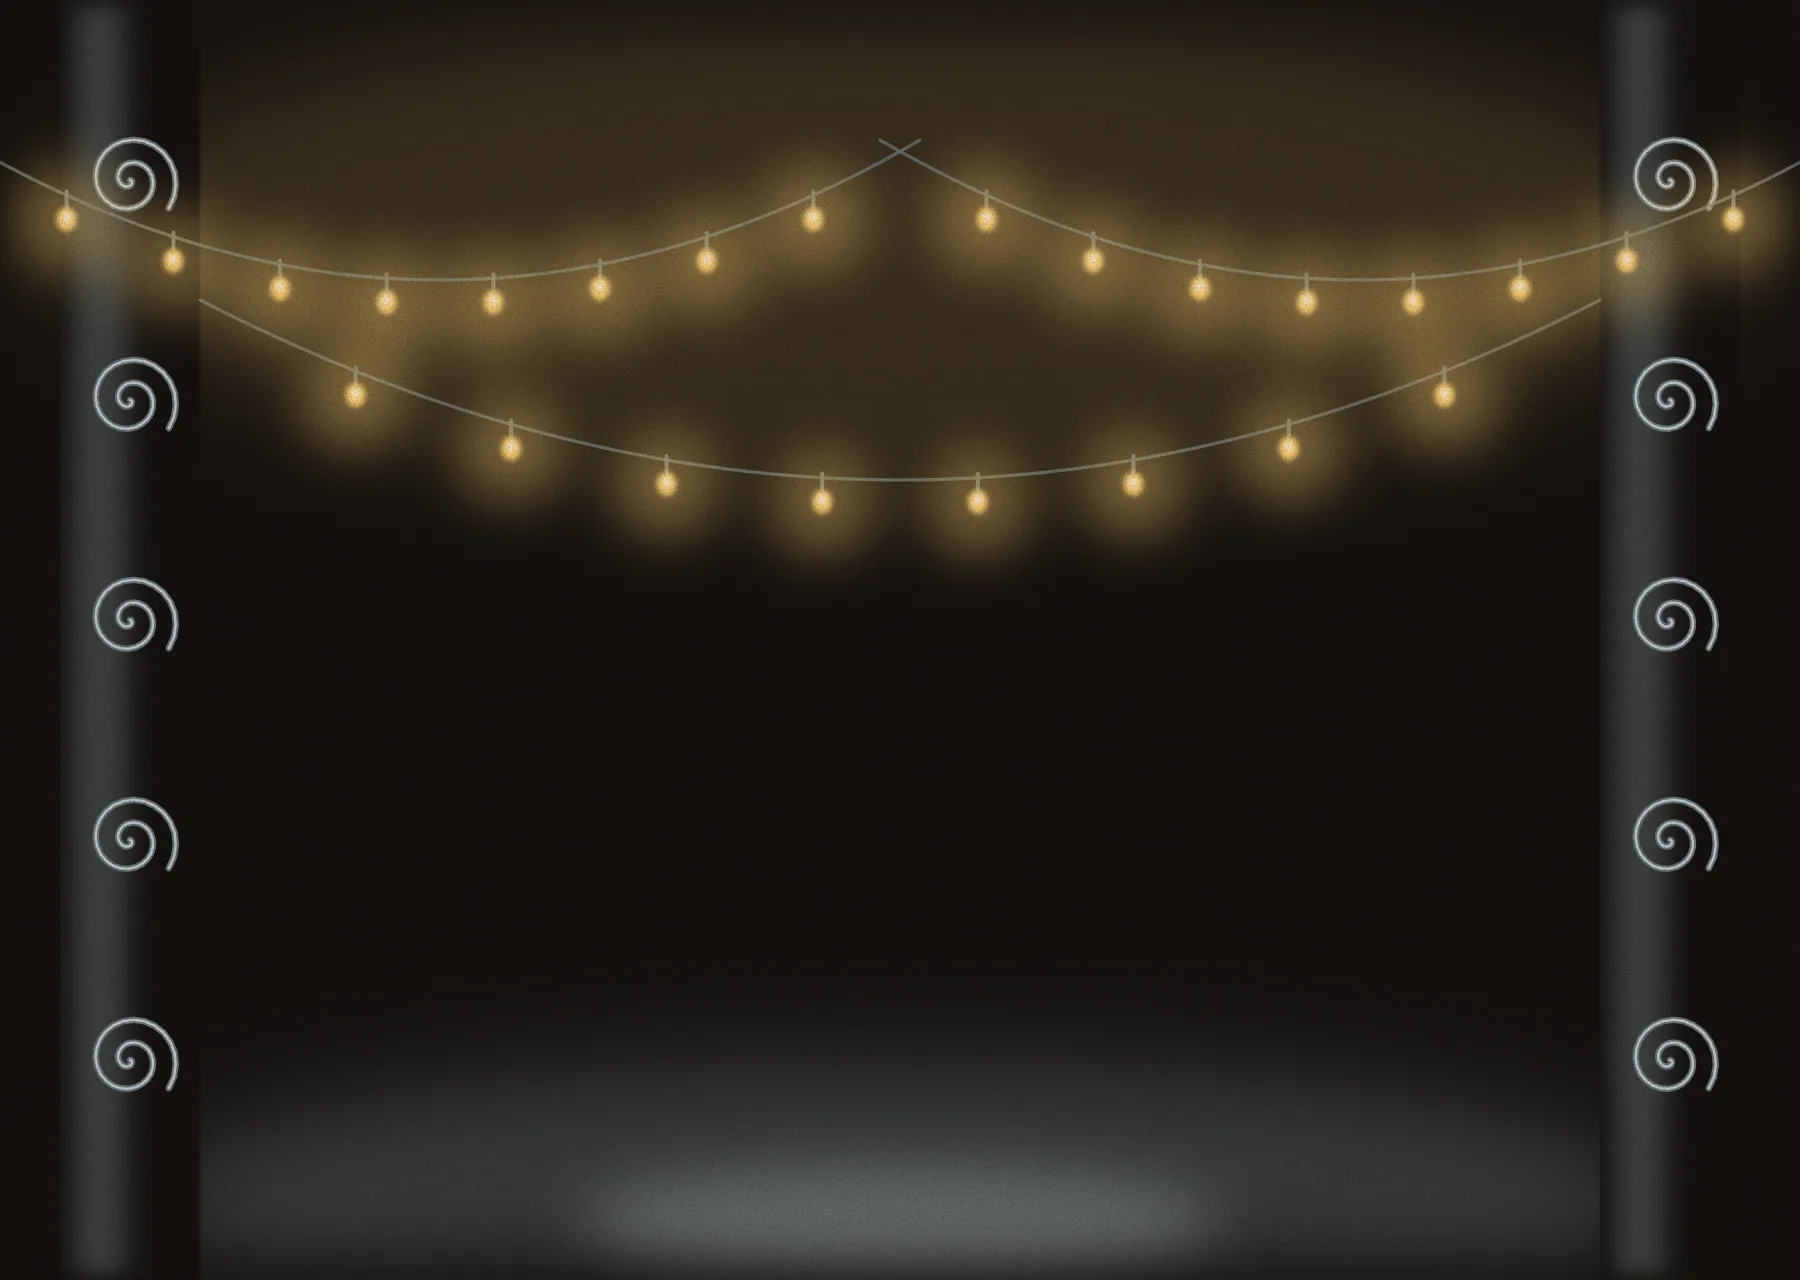
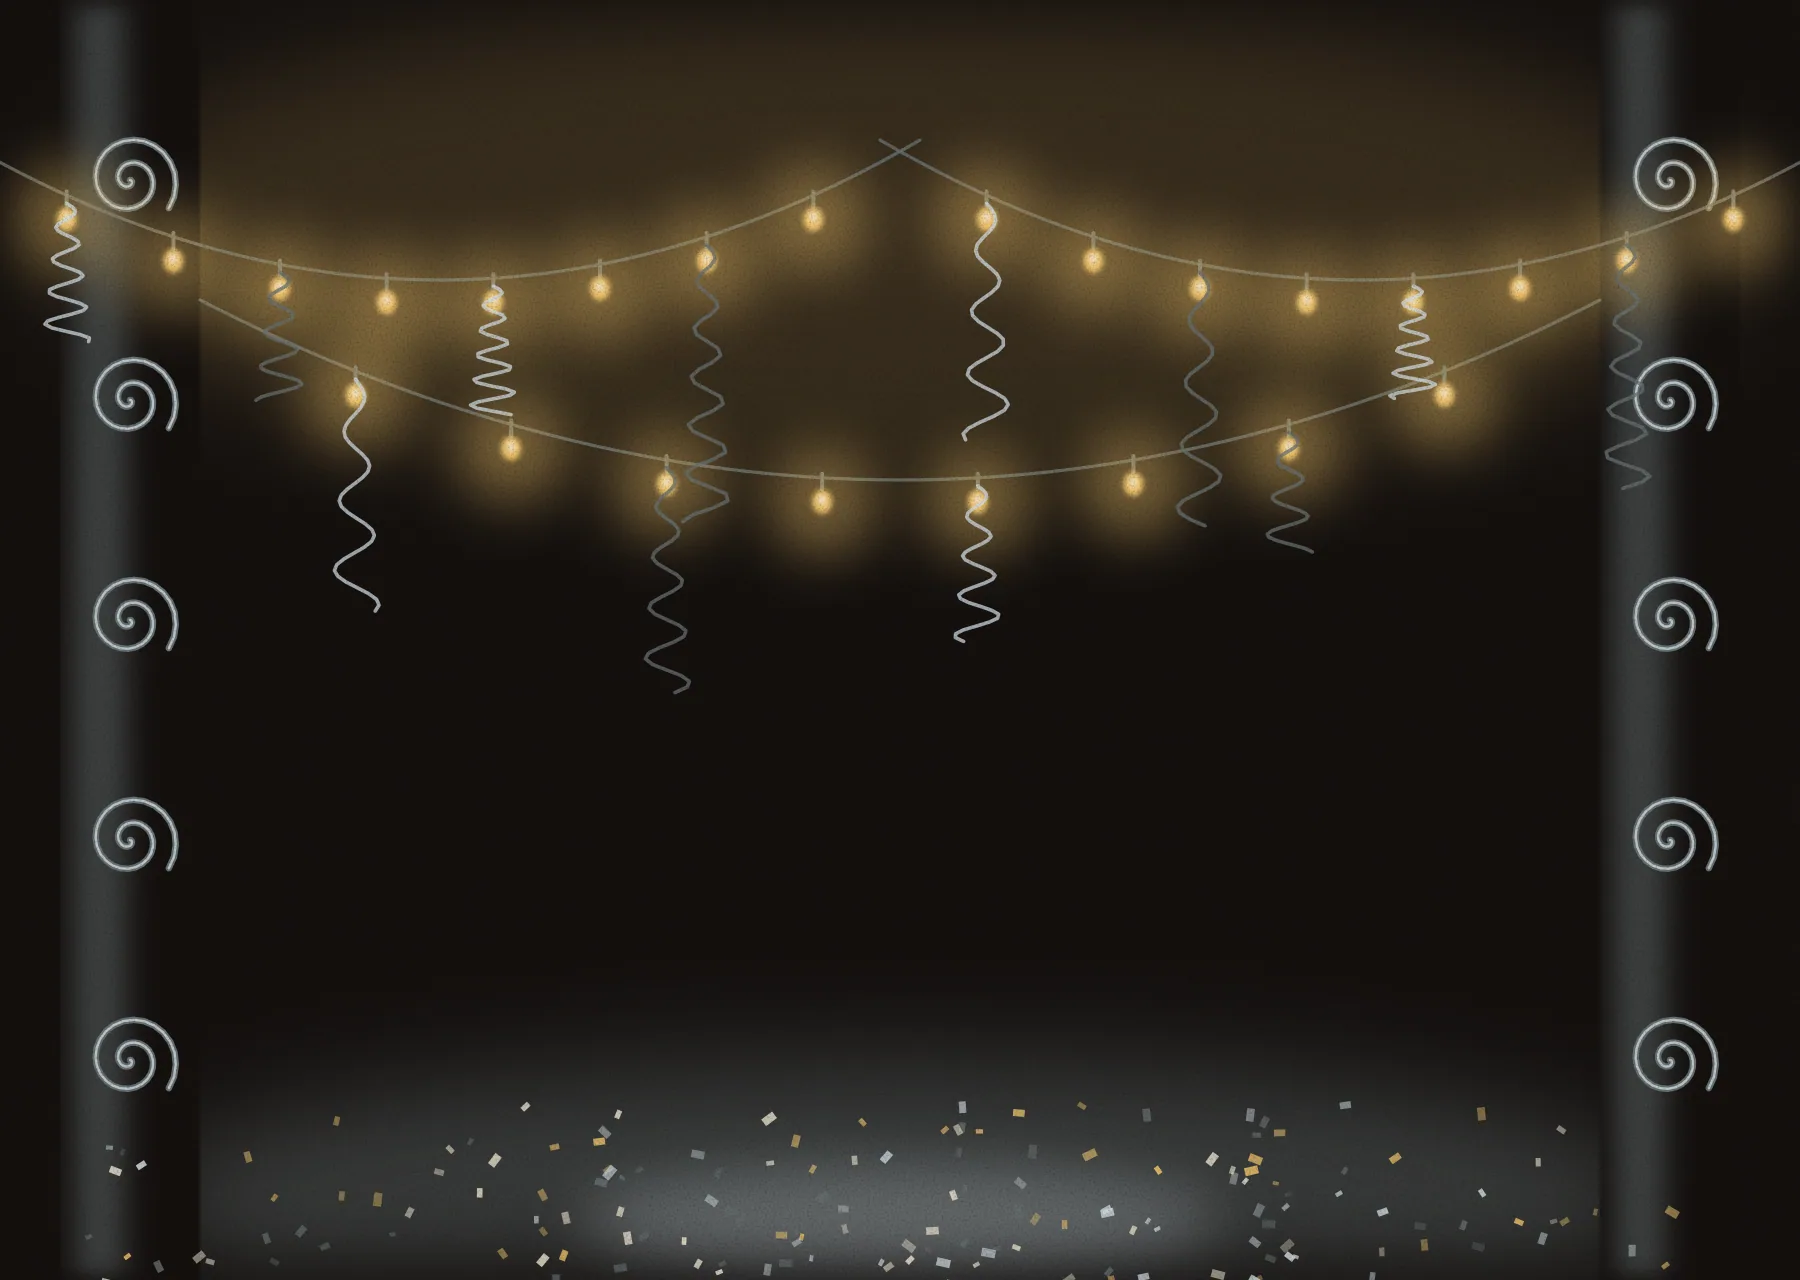
Bestiario: el infierno es un salón de baile y el templo tiene carnaval
El infierno encantador tenía la mitad de abajo vacía: ahora tiene piso de
damero en perspectiva, que devuelve el fuego de Gulp!. El templo de Momo
suma serpentinas que cuelgan de la guirnalda y papel picado en el piso, en la
plata y el oro de Momo Sampler.

diff --git a/src/lib/bestiario/arte.ts b/src/lib/bestiario/arte.ts
@@ -348,19 +348,49 @@ function infiernoLejos(): string {
   );
 }
 
-/** Lo cercano del infierno: el piso negro, la puerta del salón y la piedra de Luzbelito. */
+/**
+ * El damero del salón (octava vuelta): "esta noche está encantador", así que el infierno es un salón
+ * de baile, con el piso de baldosas negras y de brasa en perspectiva, como los pisos de los cuadros
+ * surrealistas, y el fuego de *Gulp!* que se refleja en lo encerado.
+ */
+function damero(ancho: number, alto: number, desde: number, fuga: { x: number; y: number }): string {
+  const filas: number[] = [];
+  for (let j = 0; j <= 9; j++) filas.push(desde + (alto + 30 - desde) * Math.pow(j / 9, 1.7));
+  const enY = (xb: number, y: number): number => fuga.x + (xb - fuga.x) * ((y - fuga.y) / (alto + 30 - fuga.y));
+  let baldosas = '';
+  for (let c = -12, i = 0; c < 12; c++, i++) {
+    const [b0, b1] = [ancho / 2 + c * 92, ancho / 2 + (c + 1) * 92];
+    for (let j = 0; j < filas.length - 1; j++) {
+      if ((c + j) % 2 === 0) continue;
+      const [y0, y1] = [filas[j]!, filas[j + 1]!];
+      baldosas += `M${enY(b0, y0).toFixed(1)} ${y0.toFixed(1)} L${enY(b1, y0).toFixed(1)} ${y0.toFixed(1)} L${enY(b1, y1).toFixed(1)} ${y1.toFixed(1)} L${enY(b0, y1).toFixed(1)} ${y1.toFixed(1)} Z `;
+    }
+  }
+  const piso = `M-20 ${desde} L${ancho + 20} ${desde} L${ancho + 20} ${alto + 20} L-20 ${alto + 20} Z`;
+  return enmascarado('m-damero', piso,
+    forma(piso, F.negro) +
+    forma(baldosas, F.brasa, 0.85) +
+    // Lo encerado devuelve el fuego: manchas largas y verticales, más fuertes cerca de la pared.
+    [140, 330, 560, 780].map((x, i) => nube(x, desde + 40, 36 + i * 4, 90, F.fuego, 'xl', 0.22)).join('') +
+    nube(ancho / 2, desde + 6, ancho * 0.6, 20, F.rojo, 'l', 0.45) +
+    nube(ancho / 2, alto, ancho * 0.7, 120, F.negro, 'xl', 0.7));
+}
+
+/** Lo cercano del infierno: el piso de damero del salón, la puerta y la piedra de Luzbelito. */
 function infiernoCerca(): string {
   const { ancho, alto } = ESCENA_ARTE;
   return (
     `<g filter="url(#rociado)">` +
     soplo(`M-20 336 C300 322, 600 322, ${ancho + 20} 336 L${ancho + 20} ${alto + 20} L-20 ${alto + 20} Z`, F.negro, 's') +
+    damero(ancho, alto, 340, { x: ancho / 2, y: 236 }) +
     nube(ancho / 2, 350, 520, 22, F.brasa, 'l', 0.8) +
-    nube(ancho / 2, 520, 300, 90, F.brasa, 'xl', 0.35) +
     // La puerta del salón, encendida por dentro.
     forma('M140 352 L140 262 Q180 214 220 262 L220 352 Z', F.negro) +
     soplo('M152 352 L152 270 Q180 234 208 270 L208 352 Z', F.brasa, 'xs', 0.95) +
     nube(180, 316, 18, 34, F.fuego, 'm', 0.5) +
+    nube(180, 380, 20, 40, F.fuego, 'l', 0.3) +
     // La piedra de Luzbelito: oscura, con el canto rojo del fuego.
+    nube(456, 474, 120, 10, F.negro, 's', 0.8) +
     enmascarado('m-piedra', 'M360 470 Q380 404 452 398 Q530 396 548 470 Z',
       forma('M360 470 Q380 404 452 398 Q530 396 548 470 Z', F.piedra) + nube(430, 408, 70, 12, F.rojo, 'm', 0.6) + nube(500, 460, 70, 30, F.negro, 'm', 0.85)) +
     `</g>`
@@ -421,6 +451,36 @@ export const FOCOS_TEMPLO: ReadonlyArray<readonly [number, number]> = (() => {
   return salida;
 })();
 
+/**
+ * El carnaval de Momo (octava vuelta): serpentinas que cuelgan de la guirnalda, enruladas, y papel
+ * picado en el piso donde cae la luz. Todo en la plata, el peltre y el oro de los focos: el templo
+ * sigue vistiendo *Momo Sampler*.
+ */
+function carnaval(ancho: number, alto: number): string {
+  const rnd = azar(613);
+  const colores = [P.plata, P.foco, P.peltre, 'var(--papel)'];
+  let serpentinas = '';
+  FOCOS_TEMPLO.forEach(([x, y], i) => {
+    if (i % 2) return;
+    const largo = 50 + rnd() * 90;
+    const vueltas = 3 + rnd() * 3;
+    let d = `M${x.toFixed(1)} ${(y + 4).toFixed(1)}`;
+    for (let k = 1; k <= 40; k++) {
+      const t = k / 40;
+      d += ` L${(x + Math.sin(t * vueltas * Math.PI * 2) * (4 + t * 8)).toFixed(1)} ${(y + 4 + t * largo).toFixed(1)}`;
+    }
+    serpentinas += trazo(d, colores[i % colores.length]!, 1.8, 0.75);
+  });
+  let picado = '';
+  for (let i = 0; i < 160; i++) {
+    const x = ancho / 2 + (rnd() - 0.5) * ancho * (0.4 + rnd() * 0.6);
+    const y = alto - 90 + rnd() * 90;
+    const w = 3 + rnd() * 4;
+    picado += `<rect x="${x.toFixed(1)}" y="${y.toFixed(1)}" width="${w.toFixed(1)}" height="${(w * 0.6).toFixed(1)}" fill="${colores[i % colores.length]}" opacity="${(0.35 + rnd() * 0.5).toFixed(2)}" transform="rotate(${Math.round(rnd() * 180)} ${x.toFixed(1)} ${y.toFixed(1)})"/>`;
+  }
+  return serpentinas + picado;
+}
+
 function temploLejos(): string {
   const { ancho, alto } = ESCENA_ARTE;
   let cables = '';
@@ -442,6 +502,7 @@ function temploLejos(): string {
     columna(30) + columna(ancho - 100) +
     cables +
     FOCOS_TEMPLO.map(([x, y]) => trazo(`M${x.toFixed(1)} ${(y - 2).toFixed(1)} l0 8`, P.peltre, 2) + nube(x, y + 12, 26, 26, P.foco, 'l', 0.45) + nube(x, y + 12, 5, 6, P.foco, 'xs', 0.95) + nube(x, y + 11, 2, 2.5, 'var(--papel)', 'xs')).join('') +
+    carnaval(ancho, alto) +
     `</g>`
   );
 }
